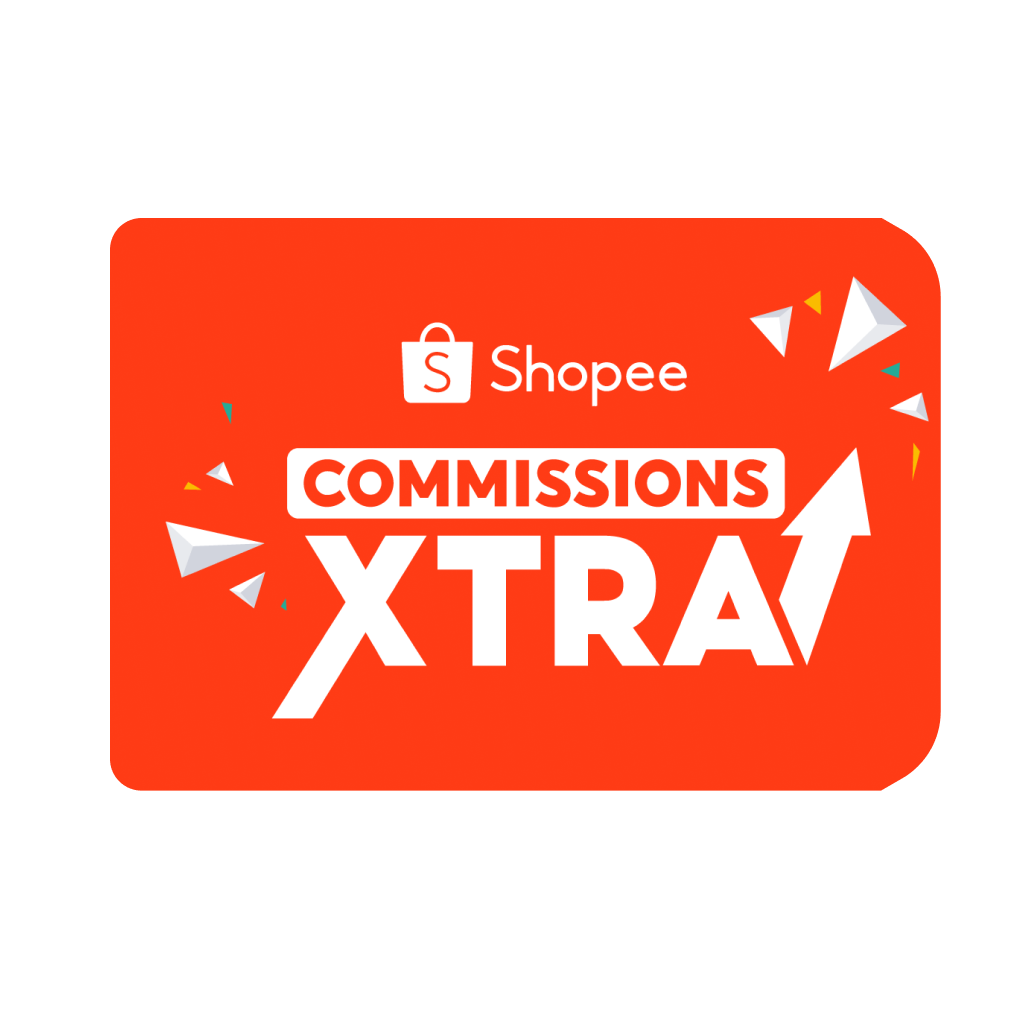
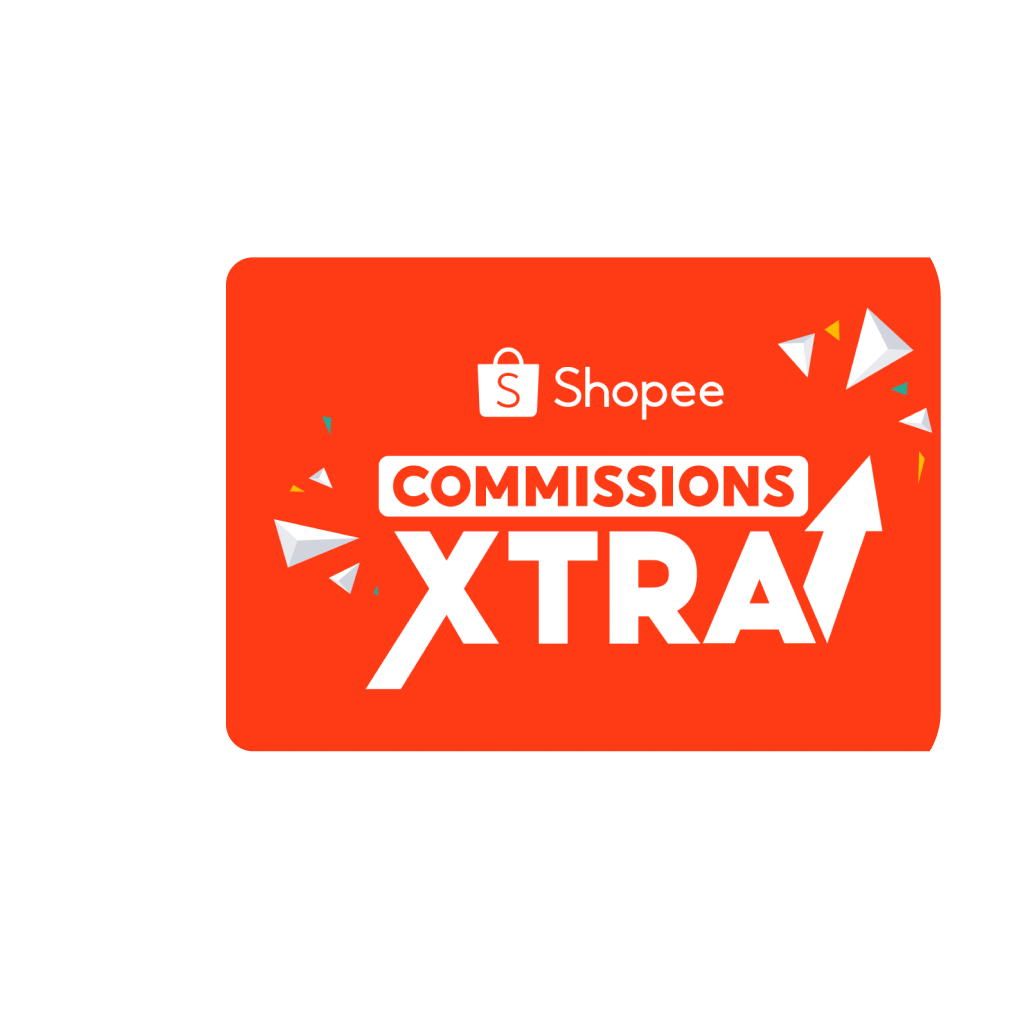
Shopee XTRA: new attribution image + mobile tap-to-enlarge lightbox
- Load updated hero + attribution images (attribution re-saved as .png; remove stale .jpg)
- Attribution note -> "Please tap to enlarge", hidden on desktop, shown on mobile
- Mobile: tap the attribution image to open a lightbox; tap to toggle zoom and pan

Changed region(s): [[0.0922, 0.2151, 0.9217, 0.7988]]

diff --git a/shopee-commissions-xtra.jsx b/shopee-commissions-xtra.jsx
@@ -1368,23 +1368,63 @@ function XtraIntro() {
 
 /* ---------- Shopee XTRA — old vs new attribution journey (diagram images to be provided) ---------- */
 function XtraAttribution() {
+  const IMG = 'media/figma/Shopee-Commissions-XTRA-NEW-V2.png';
+  const [open, setOpen] = React.useState(false);
+  const [zoom, setZoom] = React.useState(false);
+  const isMobile = () => typeof window !== 'undefined' && window.matchMedia('(max-width:700px)').matches;
+  const openLb = () => { if (isMobile()) { setZoom(false); setOpen(true); } };
+  const close = () => setOpen(false);
+  React.useEffect(() => {
+    if (!open) return;
+    const onKey = (e) => { if (e.key === 'Escape') close(); };
+    document.addEventListener('keydown', onKey);
+    const prev = document.body.style.overflow;
+    document.body.style.overflow = 'hidden';
+    return () => { document.removeEventListener('keydown', onKey); document.body.style.overflow = prev; };
+  }, [open]);
   return (
     <section id="sx-attr" className="sx-attr">
       <div className="wrap">
         <h2 className="sx-attr-h" data-reveal>Here's how the latest Shopee attribution works.</h2>
-        <p className="sx-attr-note" data-reveal data-reveal-delay="1">On mobile, zoom in to view the full Shopee attribution journey.</p>
+        <p className="sx-attr-note" data-reveal data-reveal-delay="1">Please tap to enlarge</p>
         <figure className="sx-attr-figure" data-reveal data-reveal-delay="1">
-          <img src="media/figma/Shopee-Commissions-XTRA-NEW-V2.jpg" alt="The Shopee Commissions XTRA attribution journey" loading="lazy" />
+          <img src={IMG} alt="The Shopee Commissions XTRA attribution journey" loading="lazy" onClick={openLb} />
         </figure>
         <p className="sx-attr-eg" data-reveal>Here, Nike is used as an example of a Shopee Commissions XTRA brand.</p>
       </div>
+      {open && (
+        <div className="sx-lb" role="dialog" aria-modal="true" aria-label="Shopee attribution journey" onClick={close}>
+          <button type="button" className="sx-lb-x" aria-label="Close" onClick={close}>&times;</button>
+          <div className="sx-lb-scroll" onClick={(e) => e.stopPropagation()}>
+            <div className="sx-lb-inner">
+              <img
+                src={IMG}
+                alt="The Shopee Commissions XTRA attribution journey"
+                className={`sx-lb-img${zoom ? ' zoomed' : ''}`}
+                onClick={() => setZoom((z) => !z)}
+              />
+            </div>
+          </div>
+        </div>
+      )}
       <style>{`
         .sx-attr{ background:var(--warm-50); padding:clamp(40px,7vh,88px) 0; text-align:center; }
         .sx-attr-h{ font-family:var(--font-display); font-weight:800; font-size:clamp(24px,3vw,34px); line-height:1.12; letter-spacing:-.03em; color:var(--warm-900); }
-        .sx-attr-note{ margin:14px auto 0; font:400 15px/1.5 var(--font-body); color:var(--warm-400); }
+        .sx-attr-note{ display:none; margin:14px auto 0; font:400 15px/1.5 var(--font-body); color:var(--warm-400); }
         .sx-attr-figure{ margin:clamp(28px,4vh,44px) auto 0; max-width:1000px; }
         .sx-attr-figure img{ display:block; width:100%; height:auto; border-radius:16px; }
         .sx-attr-eg{ margin:clamp(24px,3.5vh,36px) auto 0; font:400 15px/1.5 var(--font-body); color:var(--warm-600); }
+        .sx-lb{ position:fixed; inset:0; z-index:1000; background:rgba(15,28,46,.92); }
+        .sx-lb-x{ position:fixed; top:14px; right:16px; z-index:2; width:44px; height:44px; border:none; border-radius:var(--r-full); background:rgba(255,255,255,.14); color:#fff; font-size:26px; line-height:1; cursor:pointer; }
+        .sx-lb-x:hover{ background:rgba(255,255,255,.24); }
+        .sx-lb-scroll{ position:absolute; inset:0; overflow:auto; -webkit-overflow-scrolling:touch; }
+        .sx-lb-inner{ min-width:100%; min-height:100%; display:flex; align-items:center; justify-content:center; padding:16px; box-sizing:border-box; }
+        .sx-lb-img{ max-width:100%; max-height:calc(100vh - 32px); height:auto; border-radius:8px; cursor:zoom-in; touch-action:pinch-zoom; }
+        .sx-lb-img.zoomed{ max-width:none; max-height:none; width:min(1600px,300vw); height:auto; cursor:zoom-out; }
+        @media (max-width:700px){
+          .sx-attr-note{ display:block; }
+          .sx-attr-figure img{ cursor:zoom-in; }
+        }
       `}</style>
     </section>
   );
